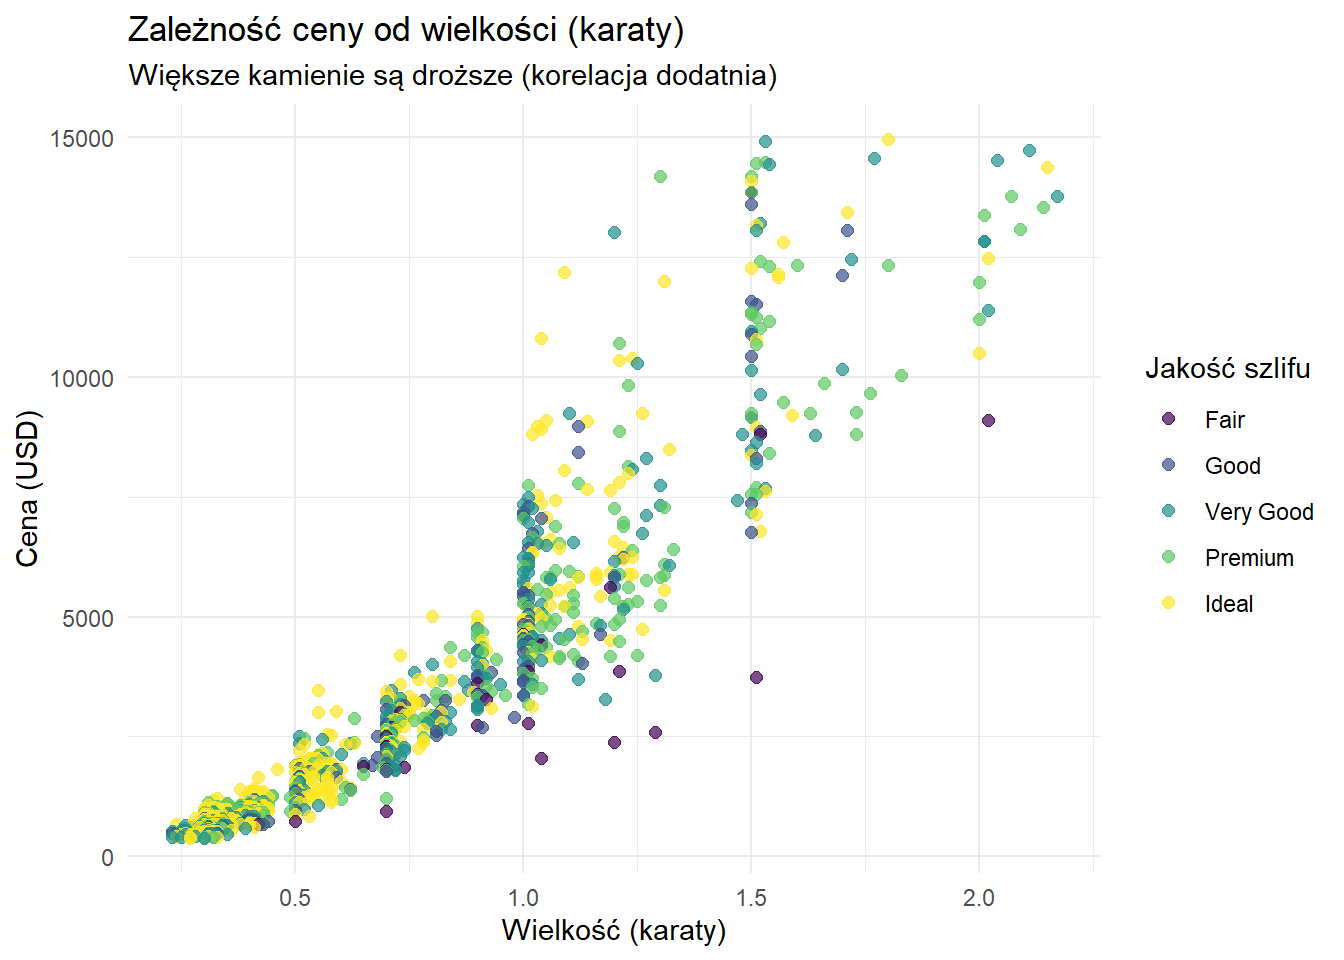
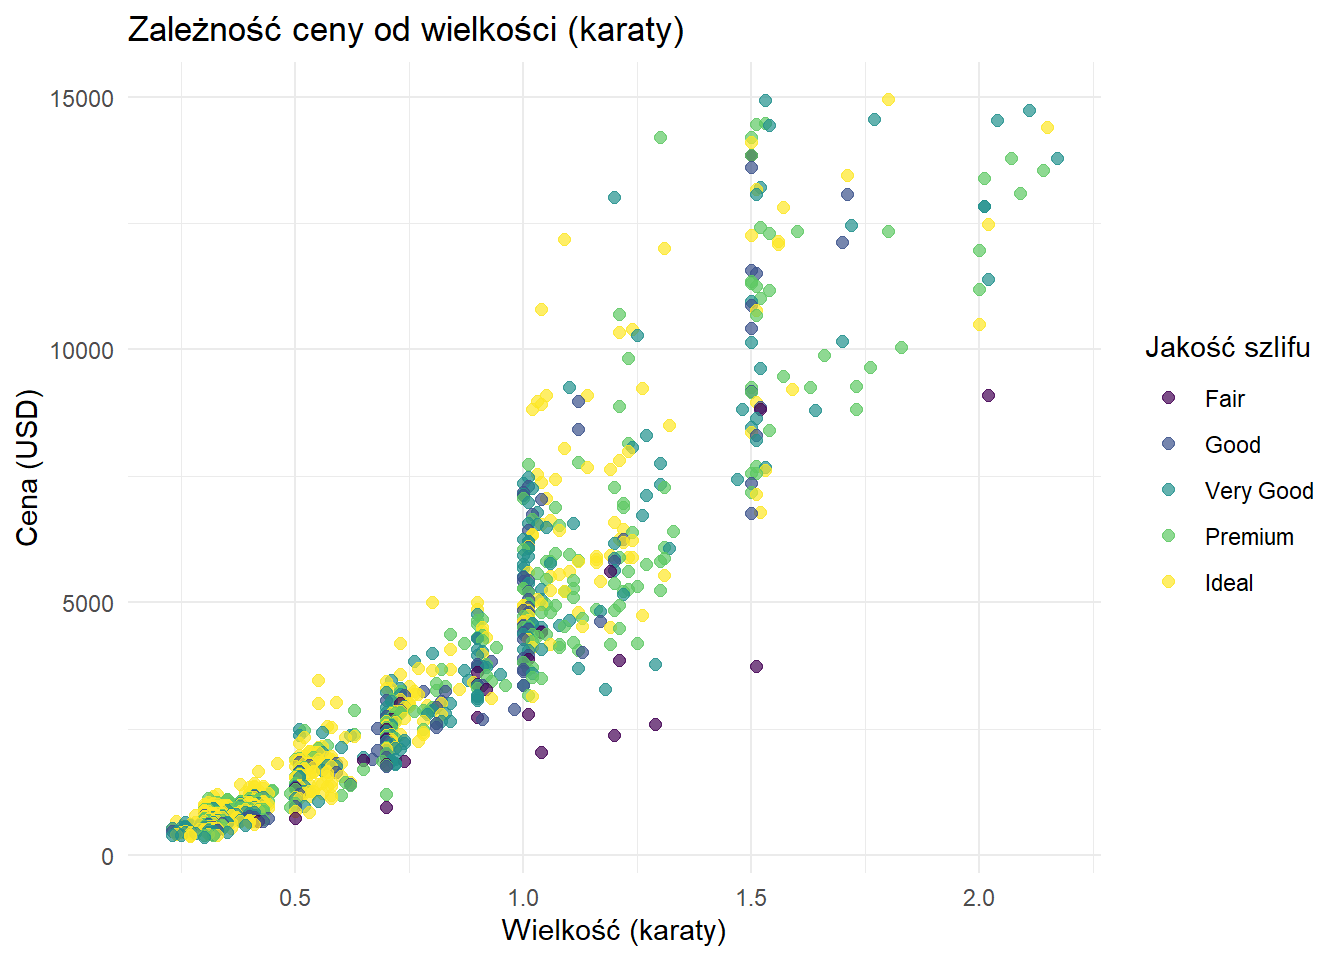
Build site.

diff --git a/docs/analiza.html b/docs/analiza.html
@@ -393,7 +393,7 @@ class="glyphicon glyphicon-ok text-success" aria-hidden="true"></span>
 <div class="tab-content">
 <div id="summary" class="tab-pane fade in active">
 <p>
-<strong>Last updated:</strong> 2026-01-10
+<strong>Last updated:</strong> 2026-01-18
 </p>
 <p>
 <strong>Checks:</strong> <span
@@ -524,15 +524,15 @@ project makes it easier to run your code on other machines.</p>
 <div class="panel panel-default">
 <div class="panel-heading">
 <p class="panel-title">
-<a data-toggle="collapse" data-parent="#workflowr-checks" href="#strongRepositoryversionstrongahrefhttpsgithubcomorionx05ProjektZaliczeniowyZBtreedbf5d0d1c646ac1790f203b07af53fbd4bfcb692targetblankdbf5d0da">
+<a data-toggle="collapse" data-parent="#workflowr-checks" href="#strongRepositoryversionstrongahrefhttpsgithubcomorionx05ProjektZaliczeniowyZBtree3e87240c29ae6689047e7a405797d1adfeb5bd6atargetblank3e87240a">
 <span class="glyphicon glyphicon-ok text-success"
 aria-hidden="true"></span> <strong>Repository version:</strong>
-<a href="https://github.com/orionx05/ProjektZaliczeniowyZB/tree/dbf5d0d1c646ac1790f203b07af53fbd4bfcb692" target="_blank">dbf5d0d</a>
+<a href="https://github.com/orionx05/ProjektZaliczeniowyZB/tree/3e87240c29ae6689047e7a405797d1adfeb5bd6a" target="_blank">3e87240</a>
 </a>
 </p>
 </div>
 <div
[2 lines of base64/hex data omitted]
 class="panel-collapse collapse">
 <div class="panel-body">
 <p>
@@ -542,7 +542,7 @@ reproducibility.
 </p>
 <p>
 The results in this page were generated with repository version
-<a href="https://github.com/orionx05/ProjektZaliczeniowyZB/tree/dbf5d0d1c646ac1790f203b07af53fbd4bfcb692" target="_blank">dbf5d0d</a>.
+<a href="https://github.com/orionx05/ProjektZaliczeniowyZB/tree/3e87240c29ae6689047e7a405797d1adfeb5bd6a" target="_blank">3e87240</a>.
 See the <em>Past versions</em> tab to see a history of the changes made
 to the R Markdown and HTML files.
 </p>
@@ -603,6 +603,40 @@ Message
 </tr>
 </thead>
 <tbody>
+<tr>
+<td>
+Rmd
+</td>
+<td>
+<a href="https://github.com/orionx05/ProjektZaliczeniowyZB/blob/3e87240c29ae6689047e7a405797d1adfeb5bd6a/analysis/analiza.Rmd" target="_blank">3e87240</a>
+</td>
+<td>
+Zuzanna Bugajska
+</td>
+<td>
+2026-01-18
+</td>
+<td>
+Poprawka do analizy
+</td>
+</tr>
+<tr>
+<td>
+html
+</td>
+<td>
+<a href="https://rawcdn.githack.com/orionx05/ProjektZaliczeniowyZB/be4d22c055242c48e2ece2f6a933cf064848872b/docs/analiza.html" target="_blank">be4d22c</a>
+</td>
+<td>
+Zuzanna Bugajska
+</td>
+<td>
+2026-01-10
+</td>
+<td>
+Build site.
+</td>
+</tr>
 <tr>
 <td>
 Rmd
@@ -802,7 +836,6 @@ kamienia.</p>
   geom_point(alpha = 0.7, size = 2) +
   labs(
     title = &quot;Zależność ceny od wielkości (karaty)&quot;,
-    subtitle = &quot;Większe kamienie są droższe (korelacja dodatnia)&quot;,
     x = &quot;Wielkość (karaty)&quot;,
     y = &quot;Cena (USD)&quot;,
     color = &quot;Jakość szlifu&quot;
